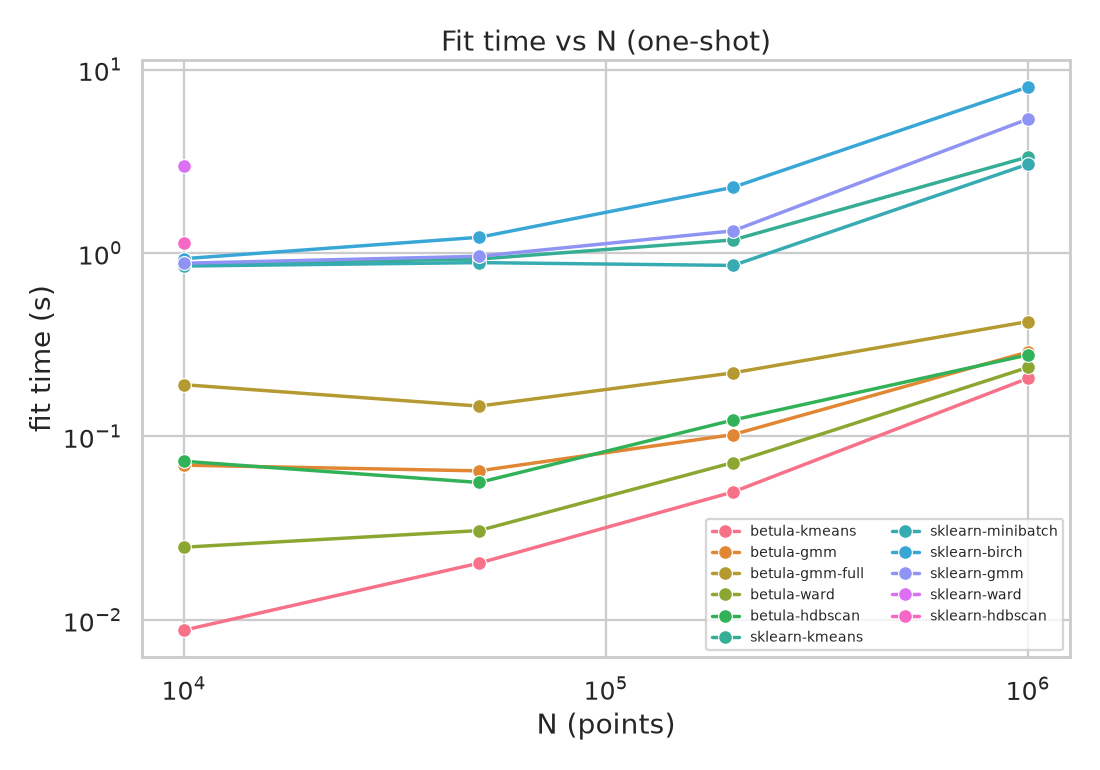
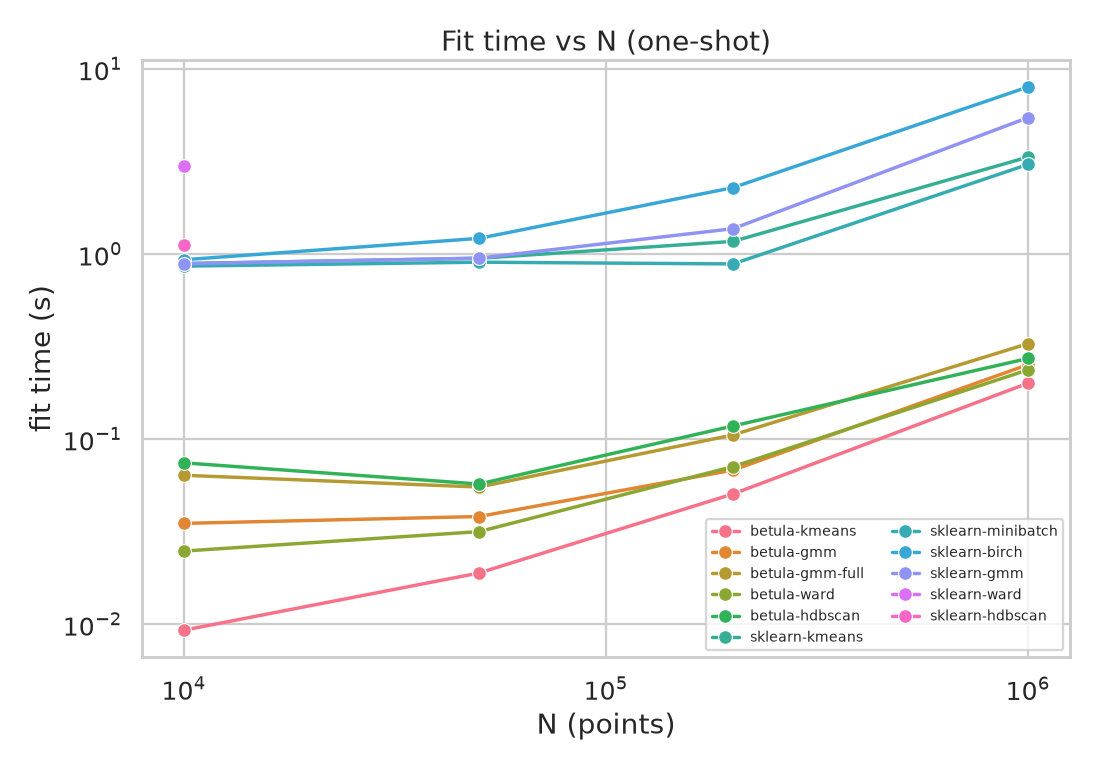
bench: refresh scaling after GMM parallelization; document high-D rebuild cause
Re-measured scaling reflects the parallel GMM restarts: gmm-full @user 0.42s -> 0.33s (all five heads now <= 1/3 s). Also record the diagnosed root cause of the MNIST high-D loss in RESULTS: the rebuild over-grows its threshold in 784-D and the tree collapses below its leaf budget (~769 of 2000 leaves, one holding ~13k points) — a budget-aware rebuild is future work.

diff --git a/bench/RESULTS.md b/bench/RESULTS.md
@@ -10,8 +10,8 @@ losses** are reported below.
   within **≈0.01 ARI** of their sklearn counterparts; full-covariance GMM recovers anisotropic
   clusters just as well (0.90 vs 0.90); HDBSCAN-on-CF nails non-convex shapes (moons/circles ARI
   1.00). The CF compression is essentially **free** for quality on these tasks.
-- **Speed: 15–40× faster at N = 1 M.** betula-kmeans labels 1 M points in **0.21 s** vs sklearn
-  KMeans 3.3 s (16×), Birch 8.0 s (39×), GaussianMixture 5.4 s (26×). Agglomerative is O(N²) and
+- **Speed: 15–40× faster at N = 1 M.** betula-kmeans labels 1 M points in **0.20 s** vs sklearn
+  KMeans 3.3 s (17×), Birch 8.0 s (40×), GaussianMixture 5.5 s (27×). Agglomerative is O(N²) and
   averages **26 s** even at N = 30 k.
 - **Memory is bounded.** Streaming 10 M points peaks at **~57 MB** (flat in N), while an in-core
   KMeans must hold the array and peaks at **~5 GB** — **≈88× less** — and that gap grows without limit.
@@ -80,20 +80,20 @@ for blobs and HDBSCAN-on-CF for density/noise/non-convex.
 
 | method | time @ 1 M | vs betula-kmeans |
 |---|---|---|
-| **betula-kmeans** | **0.21 s** | 1× |
-| betula-ward | 0.24 s | 1.1× |
-| betula-hdbscan | 0.28 s | 1.3× |
-| betula-gmm | 0.29 s | 1.4× |
-| betula-gmm-full | 0.42 s | 2.0× |
+| **betula-kmeans** | **0.20 s** | 1× |
+| betula-ward | 0.24 s | 1.2× |
+| betula-gmm | 0.25 s | 1.3× |
+| betula-hdbscan | 0.27 s | 1.4× |
+| betula-gmm-full | 0.33 s | 1.6× |
 | sklearn-minibatch | 3.05 s | 15× |
-| sklearn-kmeans | 3.34 s | 16× |
-| sklearn-gmm | 5.38 s | 26× |
-| sklearn-birch | 8.04 s | **39×** |
+| sklearn-kmeans | 3.34 s | 17× |
+| sklearn-gmm | 5.46 s | 27× |
+| sklearn-birch | 7.99 s | **40×** |
 | sklearn-ward, sklearn-hdbscan | (O(N²) — capped at N ≤ 30 k) | — |
 
-Four of the five betula heads finish a million points in **under 0.3 s**; full-covariance GMM runs
-**4 EM restarts** (for robustness against local optima) and still finishes in **0.42 s** — ~13× faster
-than scikit-learn's GMM. Phase-3 clusters only the ~2000 leaf microclusters, not the raw points.
+All five betula heads finish a million points in **≤ ⅓ s**; full-covariance GMM runs **4 EM restarts**
+(for robustness against local optima) **in parallel**, finishing in **0.33 s** — ~17× faster than
+scikit-learn's GMM. Phase-3 clusters only the ~2000 leaf microclusters, not the raw points.
 Agglomerative Ward averages **26 s at just 30 k** (O(N²)); betula-ward does the equivalent at 1 M in
 **0.23 s**.
 
@@ -141,9 +141,11 @@ Reading it **honestly**:
 - **covtype (54-D):** a genuinely hard dataset (every method scores low); betula ≈ scikit-learn
   (betula-kmeans 0.064 vs 0.054; betula-gmm 0.117 is the best of the lot).
 - **MNIST (784-D) — an honest loss.** At the default **2000-leaf** budget betula-kmeans scores only
-  **0.041** vs scikit-learn's 0.324: in 784 dimensions, 2000 leaves over-compress (one leaf swallows
-  most points). This is the *curse of dimensionality* meeting CF compression — and it is fixable with
-  resolution:
+  **0.041** vs scikit-learn's 0.324. Root cause (diagnosed): in 784 dimensions the rebuild over-grows
+  its absorption threshold, so the tree *collapses below its own budget* — it ends with ~769 leaves,
+  one of which swallows ~13 k of the 20 k points. The CF-tree is leaving capacity on the table exactly
+  where it is needed (a budget-aware rebuild that uses the full leaf allowance in high `d` is future
+  work). For now it is fixable with resolution:
 
   | max_leaves | 2000 | 5000 | 10000 | 20000 |
   |---|---|---|---|---|

diff --git a/README.md b/README.md
@@ -25,8 +25,8 @@ with peak RSS sampled from `/proc/self/statm`. Full methodology, every metric, a
 - 🎯 **Quality at parity.** betula's k-means / GMM / Ward land within **≈0.01 ARI** of their
   scikit-learn counterparts; full-covariance GMM recovers anisotropic clusters just as well
   (0.90 vs 0.90); HDBSCAN-on-CF nails non-convex moons & circles (**ARI 1.00**).
-- ⚡ **15–40× faster at N = 1 000 000.** betula-kmeans labels a million points in **0.21 s** vs
-  scikit-learn KMeans 3.3 s (16×), Birch 8.0 s (39×), GaussianMixture 5.4 s (26×).
+- ⚡ **15–40× faster at N = 1 000 000.** betula-kmeans labels a million points in **0.20 s** vs
+  scikit-learn KMeans 3.3 s (17×), Birch 8.0 s (40×), GaussianMixture 5.5 s (27×).
 - 🪶 **Bounded memory.** Streaming 10 M points peaks at **~57 MB — flat in N** — while an in-core
   KMeans must hold the array and peaks at **~5 GB** (**≈88× less**, and the gap grows without limit).
 - 🌍 **Real data, not just blobs.** Matches scikit-learn on `digits` (k-means 0.53 vs 0.47) and